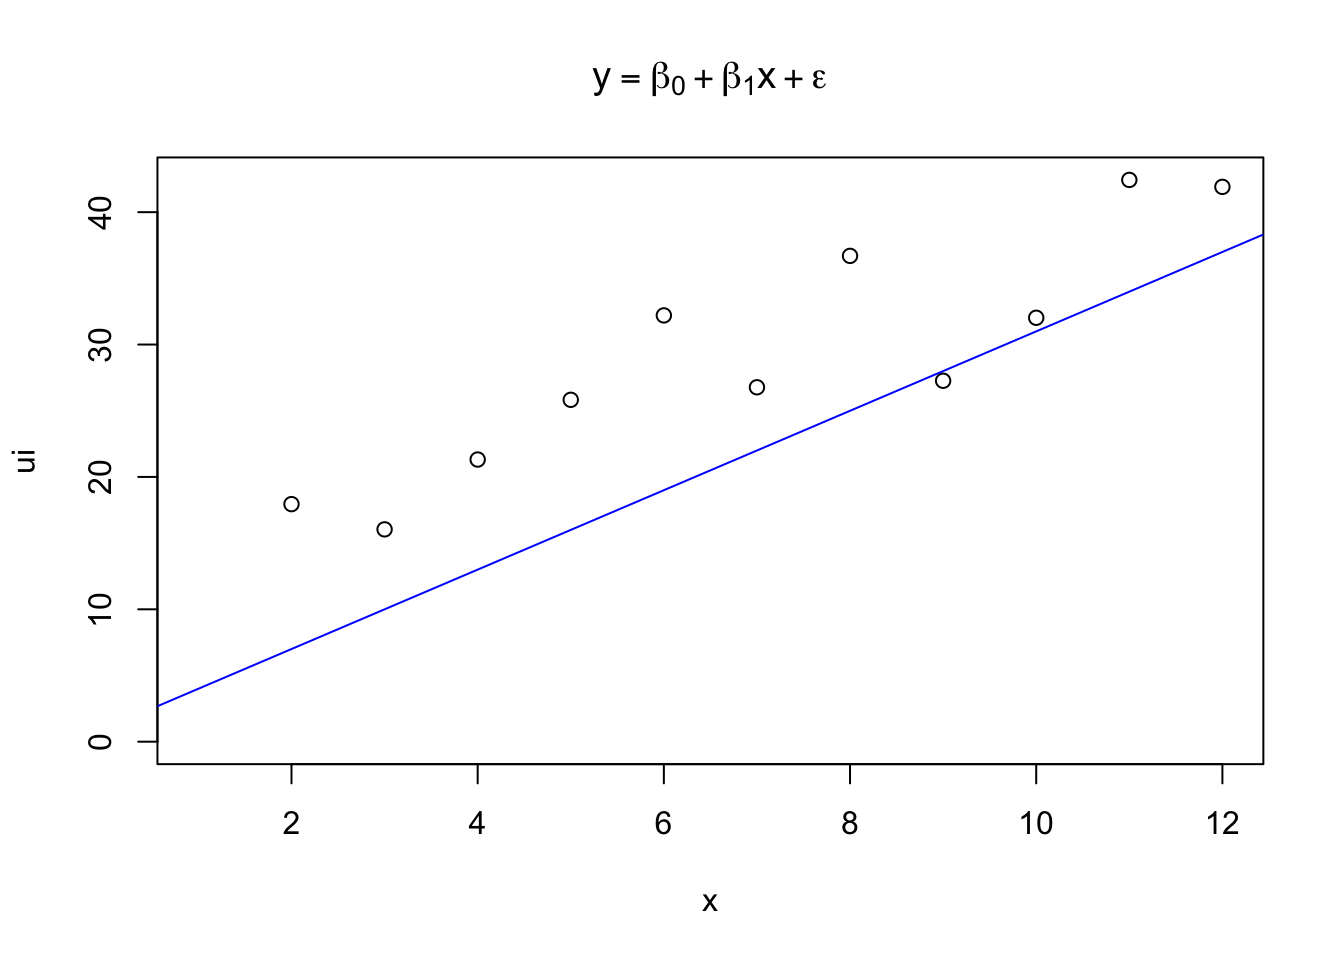
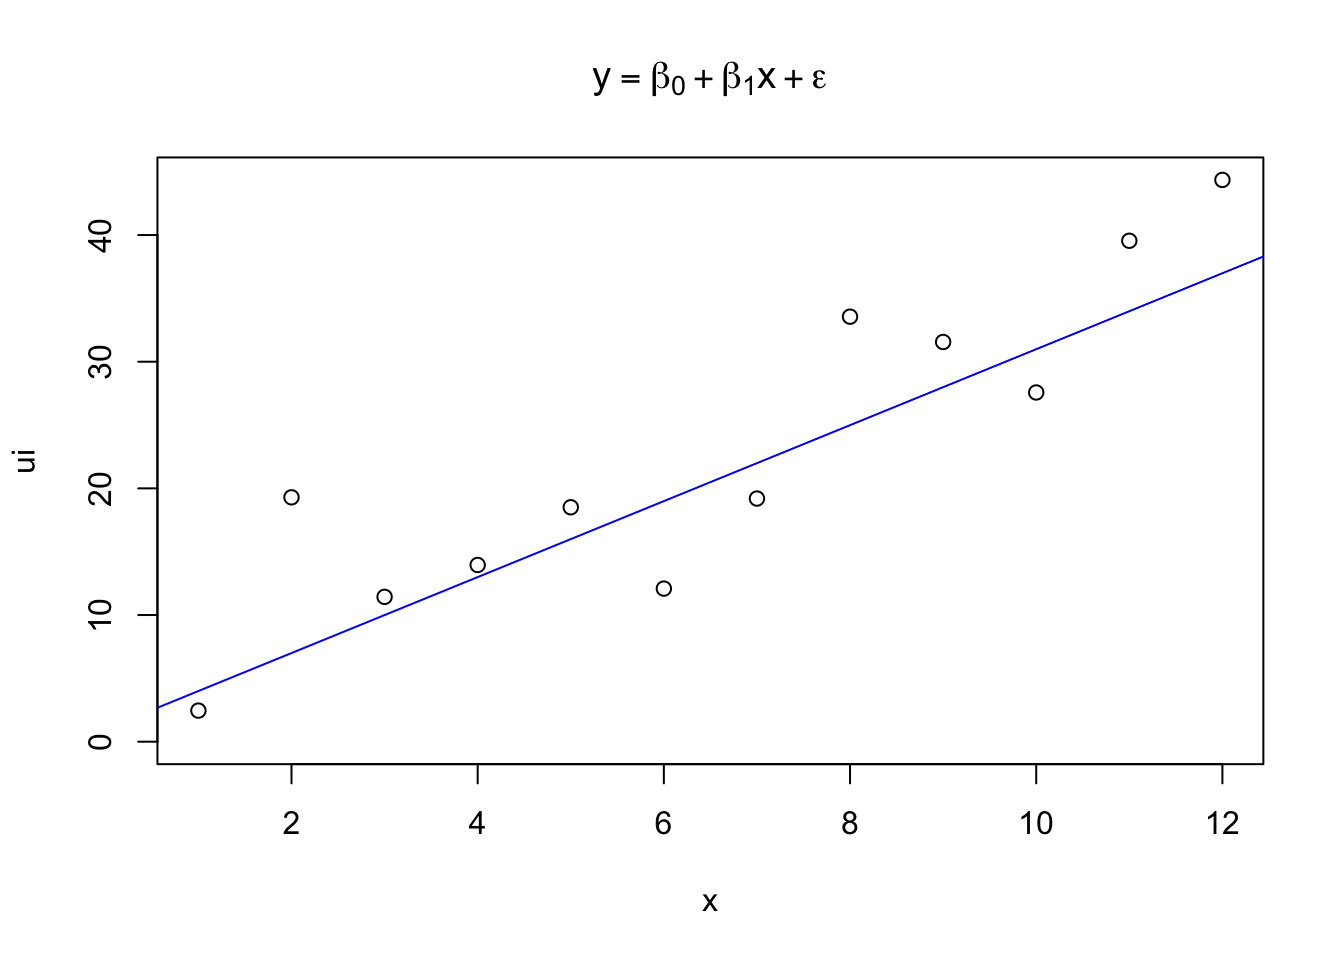
Update gitbook

diff --git a/docs/model.html b/docs/model.html
@@ -4,18 +4,18 @@
 
   <meta charset="utf-8" />
   <meta http-equiv="X-UA-Compatible" content="IE=edge" />
-  <title>Chapter 4 Modeling | NANP Bayesian Workbook</title>
+  <title>Chapter 5 Modeling | NANP Bayesian Workbook</title>
   <meta name="description" content="This is a workbook written to accompany the Bayesian Seminar and Workshop presented by Dr. Ira Parsons and the 2025 National Animal Nutrition Program presymposium for the American Society of Animal Scientists, held in Hollywood Florida." />
   <meta name="generator" content="bookdown 0.43 and GitBook 2.6.7" />
 
-  <meta property="og:title" content="Chapter 4 Modeling | NANP Bayesian Workbook" />
+  <meta property="og:title" content="Chapter 5 Modeling | NANP Bayesian Workbook" />
   <meta property="og:type" content="book" />
   
   <meta property="og:description" content="This is a workbook written to accompany the Bayesian Seminar and Workshop presented by Dr. Ira Parsons and the 2025 National Animal Nutrition Program presymposium for the American Society of Animal Scientists, held in Hollywood Florida." />
   <meta name="github-repo" content="rstudio/bookdown-demo" />
 
   <meta name="twitter:card" content="summary" />
-  <meta name="twitter:title" content="Chapter 4 Modeling | NANP Bayesian Workbook" />
+  <meta name="twitter:title" content="Chapter 5 Modeling | NANP Bayesian Workbook" />
   
   <meta name="twitter:description" content="This is a workbook written to accompany the Bayesian Seminar and Workshop presented by Dr. Ira Parsons and the 2025 National Animal Nutrition Program presymposium for the American Society of Animal Scientists, held in Hollywood Florida." />
   
@@ -30,7 +30,7 @@
   <meta name="apple-mobile-web-app-status-bar-style" content="black" />
   
   
-<link rel="prev" href="probs.html"/>
+<link rel="prev" href="gibbs-sampler-gibbs.html"/>
 
 <script src="libs/jquery-3.6.0/jquery-3.6.0.min.js"></script>
 <script src="https://cdn.jsdelivr.net/npm/fuse.js@6.4.6/dist/fuse.min.js"></script>
@@ -186,9 +186,10 @@ div.csl-indent {
 <li class="chapter" data-level="3.2.3" data-path="probs.html"><a href="probs.html#observation-model"><i class="fa fa-check"></i><b>3.2.3</b> Observation model</a></li>
 </ul></li>
 </ul></li>
-<li class="chapter" data-level="4" data-path="model.html"><a href="model.html"><i class="fa fa-check"></i><b>4</b> Modeling</a>
+<li class="chapter" data-level="4" data-path="gibbs-sampler-gibbs.html"><a href="gibbs-sampler-gibbs.html"><i class="fa fa-check"></i><b>4</b> Gibbs sampler {gibbs}</a></li>
+<li class="chapter" data-level="5" data-path="model.html"><a href="model.html"><i class="fa fa-check"></i><b>5</b> Modeling</a>
 <ul>
-<li class="chapter" data-level="4.1" data-path="model.html"><a href="model.html#excercise-1"><i class="fa fa-check"></i><b>4.1</b> Excercise 1</a></li>
+<li class="chapter" data-level="5.1" data-path="model.html"><a href="model.html#excercise-1"><i class="fa fa-check"></i><b>5.1</b> Excercise 1</a></li>
 </ul></li>
 <li class="divider"></li>
 <li><a href="https://iraparsons.com" target="blank">Ira Parsons</a></li>
@@ -210,10 +211,10 @@ div.csl-indent {
           <div class="page-inner">
 
             <section class="normal" id="section-">
-<div id="model" class="section level1 hasAnchor" number="4">
-<h1><span class="header-section-number">Chapter 4</span> Modeling<a href="model.html#model" class="anchor-section" aria-label="Anchor link to header"></a></h1>
-<div id="excercise-1" class="section level2 hasAnchor" number="4.1">
-<h2><span class="header-section-number">4.1</span> Excercise 1<a href="model.html#excercise-1" class="anchor-section" aria-label="Anchor link to header"></a></h2>
+<div id="model" class="section level1 hasAnchor" number="5">
+<h1><span class="header-section-number">Chapter 5</span> Modeling<a href="model.html#model" class="anchor-section" aria-label="Anchor link to header"></a></h1>
+<div id="excercise-1" class="section level2 hasAnchor" number="5.1">
+<h2><span class="header-section-number">5.1</span> Excercise 1<a href="model.html#excercise-1" class="anchor-section" aria-label="Anchor link to header"></a></h2>
 <p>We have a dataset representing</p>
 
 <div id="refs" class="references csl-bib-body hanging-indent" entry-spacing="0">
@@ -240,7 +241,7 @@ Wasserstein, Ronald L., and Nicole A. Lazar. 2016. <span>“The <span>ASA</span>
           </div>
         </div>
       </div>
-<a href="probs.html" class="navigation navigation-prev navigation-unique" aria-label="Previous page"><i class="fa fa-angle-left"></i></a>
+<a href="gibbs-sampler-gibbs.html" class="navigation navigation-prev navigation-unique" aria-label="Previous page"><i class="fa fa-angle-left"></i></a>
 
     </div>
   </div>
@@ -272,7 +273,7 @@ gitbook.start({
     "size": 2
   },
   "edit": {
-    "link": "https://github.com/USERNAME/REPO/edit/BRANCH/04-modeling.Rmd",
+    "link": "https://github.com/USERNAME/REPO/edit/BRANCH/05-modeling.Rmd",
     "text": "Edit"
   },
   "history": {

diff --git a/docs/gibbs-sampler-gibbs.html b/docs/gibbs-sampler-gibbs.html
@@ -4,18 +4,18 @@
 
   <meta charset="utf-8" />
   <meta http-equiv="X-UA-Compatible" content="IE=edge" />
-  <title>Page not found | NANP Bayesian Workbook</title>
+  <title>Chapter 4 Gibbs sampler {gibbs} | NANP Bayesian Workbook</title>
   <meta name="description" content="This is a workbook written to accompany the Bayesian Seminar and Workshop presented by Dr. Ira Parsons and the 2025 National Animal Nutrition Program presymposium for the American Society of Animal Scientists, held in Hollywood Florida." />
   <meta name="generator" content="bookdown 0.43 and GitBook 2.6.7" />
 
-  <meta property="og:title" content="Page not found | NANP Bayesian Workbook" />
+  <meta property="og:title" content="Chapter 4 Gibbs sampler {gibbs} | NANP Bayesian Workbook" />
   <meta property="og:type" content="book" />
   
   <meta property="og:description" content="This is a workbook written to accompany the Bayesian Seminar and Workshop presented by Dr. Ira Parsons and the 2025 National Animal Nutrition Program presymposium for the American Society of Animal Scientists, held in Hollywood Florida." />
   <meta name="github-repo" content="rstudio/bookdown-demo" />
 
   <meta name="twitter:card" content="summary" />
-  <meta name="twitter:title" content="Page not found | NANP Bayesian Workbook" />
+  <meta name="twitter:title" content="Chapter 4 Gibbs sampler {gibbs} | NANP Bayesian Workbook" />
   
   <meta name="twitter:description" content="This is a workbook written to accompany the Bayesian Seminar and Workshop presented by Dr. Ira Parsons and the 2025 National Animal Nutrition Program presymposium for the American Society of Animal Scientists, held in Hollywood Florida." />
   
@@ -30,8 +30,8 @@
   <meta name="apple-mobile-web-app-status-bar-style" content="black" />
   
   
-
-
+<link rel="prev" href="probs.html"/>
+<link rel="next" href="model.html"/>
 <script src="libs/jquery-3.6.0/jquery-3.6.0.min.js"></script>
 <script src="https://cdn.jsdelivr.net/npm/fuse.js@6.4.6/dist/fuse.min.js"></script>
 <link href="libs/gitbook-2.6.7/css/style.css" rel="stylesheet" />
@@ -211,19 +211,17 @@ div.csl-indent {
           <div class="page-inner">
 
             <section class="normal" id="section-">
-<div id="page-not-found" class="section level1">
-<h1>Page not found</h1>
-<p>The page you requested cannot be found (perhaps it was moved or renamed).</p>
-<p>You may want to try searching to find the page's new location, or use
-the table of contents to find the page you are looking for.</p>
+<div id="gibbs-sampler-gibbs" class="section level1 hasAnchor" number="4">
+<h1><span class="header-section-number">Chapter 4</span> Gibbs sampler {gibbs}<a href="gibbs-sampler-gibbs.html#gibbs-sampler-gibbs" class="anchor-section" aria-label="Anchor link to header"></a></h1>
+
 </div>
             </section>
 
           </div>
         </div>
       </div>
-
-
+<a href="probs.html" class="navigation navigation-prev " aria-label="Previous page"><i class="fa fa-angle-left"></i></a>
+<a href="model.html" class="navigation navigation-next " aria-label="Next page"><i class="fa fa-angle-right"></i></a>
     </div>
   </div>
 <script src="libs/gitbook-2.6.7/js/app.min.js"></script>
@@ -254,7 +252,7 @@ gitbook.start({
     "size": 2
   },
   "edit": {
-    "link": "https://github.com/USERNAME/REPO/edit/BRANCH/%s",
+    "link": "https://github.com/USERNAME/REPO/edit/BRANCH/04-gibbs.Rmd",
     "text": "Edit"
   },
   "history": {

diff --git a/docs/probs.html b/docs/probs.html
@@ -31,7 +31,7 @@
   
   
 <link rel="prev" href="bayes.html"/>
-<link rel="next" href="model.html"/>
+<link rel="next" href="gibbs-sampler-gibbs.html"/>
 <script src="libs/jquery-3.6.0/jquery-3.6.0.min.js"></script>
 <script src="https://cdn.jsdelivr.net/npm/fuse.js@6.4.6/dist/fuse.min.js"></script>
 <link href="libs/gitbook-2.6.7/css/style.css" rel="stylesheet" />
@@ -186,9 +186,10 @@ div.csl-indent {
 <li class="chapter" data-level="3.2.3" data-path="probs.html"><a href="probs.html#observation-model"><i class="fa fa-check"></i><b>3.2.3</b> Observation model</a></li>
 </ul></li>
 </ul></li>
-<li class="chapter" data-level="4" data-path="model.html"><a href="model.html"><i class="fa fa-check"></i><b>4</b> Modeling</a>
+<li class="chapter" data-level="4" data-path="gibbs-sampler-gibbs.html"><a href="gibbs-sampler-gibbs.html"><i class="fa fa-check"></i><b>4</b> Gibbs sampler {gibbs}</a></li>
+<li class="chapter" data-level="5" data-path="model.html"><a href="model.html"><i class="fa fa-check"></i><b>5</b> Modeling</a>
 <ul>
-<li class="chapter" data-level="4.1" data-path="model.html"><a href="model.html#excercise-1"><i class="fa fa-check"></i><b>4.1</b> Excercise 1</a></li>
+<li class="chapter" data-level="5.1" data-path="model.html"><a href="model.html#excercise-1"><i class="fa fa-check"></i><b>5.1</b> Excercise 1</a></li>
 </ul></li>
 <li class="divider"></li>
 <li><a href="https://iraparsons.com" target="blank">Ira Parsons</a></li>
@@ -314,19 +315,19 @@ div.csl-indent {
 ## lm(formula = ui ~ x)
 ## 
 ## Residuals:
-##    Min     1Q Median     3Q    Max 
-## -7.820 -4.356 -2.974  3.494 16.461 
+##     Min      1Q  Median      3Q     Max 
+## -9.1375 -3.6155  0.0147  3.0692 10.6044 
 ## 
 ## Coefficients:
 ##             Estimate Std. Error t value Pr(&gt;|t|)    
-## (Intercept)   4.9734     4.3629   1.140  0.28088    
-## x             2.9473     0.5928   4.972  0.00056 ***
+## (Intercept)   2.4192     3.5634   0.679    0.513    
+## x             3.1344     0.4842   6.474 7.13e-05 ***
 ## ---
 ## Signif. codes:  0 &#39;***&#39; 0.001 &#39;**&#39; 0.01 &#39;*&#39; 0.05 &#39;.&#39; 0.1 &#39; &#39; 1
 ## 
-## Residual standard error: 7.089 on 10 degrees of freedom
-## Multiple R-squared:  0.712,  Adjusted R-squared:  0.6832 
-## F-statistic: 24.72 on 1 and 10 DF,  p-value: 0.0005601</code></pre>
+## Residual standard error: 5.79 on 10 degrees of freedom
+## Multiple R-squared:  0.8074, Adjusted R-squared:  0.7881 
+## F-statistic: 41.91 on 1 and 10 DF,  p-value: 7.129e-05</code></pre>
 </div>
 <div id="observation-model" class="section level3 hasAnchor" number="3.2.3">
 <h3><span class="header-section-number">3.2.3</span> Observation model<a href="probs.html#observation-model" class="anchor-section" aria-label="Anchor link to header"></a></h3>
@@ -347,7 +348,7 @@ Hobbs, N. Thompson, and Mevin B. Hooten. 2015. <em>Bayesian <span>Models</span>:
         </div>
       </div>
 <a href="bayes.html" class="navigation navigation-prev " aria-label="Previous page"><i class="fa fa-angle-left"></i></a>
-<a href="model.html" class="navigation navigation-next " aria-label="Next page"><i class="fa fa-angle-right"></i></a>
+<a href="gibbs-sampler-gibbs.html" class="navigation navigation-next " aria-label="Next page"><i class="fa fa-angle-right"></i></a>
     </div>
   </div>
 <script src="libs/gitbook-2.6.7/js/app.min.js"></script>

diff --git a/docs/index.html b/docs/index.html
@@ -186,9 +186,10 @@ div.csl-indent {
 <li class="chapter" data-level="3.2.3" data-path="probs.html"><a href="probs.html#observation-model"><i class="fa fa-check"></i><b>3.2.3</b> Observation model</a></li>
 </ul></li>
 </ul></li>
-<li class="chapter" data-level="4" data-path="model.html"><a href="model.html"><i class="fa fa-check"></i><b>4</b> Modeling</a>
+<li class="chapter" data-level="4" data-path="gibbs-sampler-gibbs.html"><a href="gibbs-sampler-gibbs.html"><i class="fa fa-check"></i><b>4</b> Gibbs sampler {gibbs}</a></li>
+<li class="chapter" data-level="5" data-path="model.html"><a href="model.html"><i class="fa fa-check"></i><b>5</b> Modeling</a>
 <ul>
-<li class="chapter" data-level="4.1" data-path="model.html"><a href="model.html#excercise-1"><i class="fa fa-check"></i><b>4.1</b> Excercise 1</a></li>
+<li class="chapter" data-level="5.1" data-path="model.html"><a href="model.html#excercise-1"><i class="fa fa-check"></i><b>5.1</b> Excercise 1</a></li>
 </ul></li>
 <li class="divider"></li>
 <li><a href="https://iraparsons.com" target="blank">Ira Parsons</a></li>
@@ -219,7 +220,7 @@ div.csl-indent {
 <h1>Abstract<a href="index.html#abstract" class="anchor-section" aria-label="Anchor link to header"></a></h1>
 <blockquote>
 <p>“How do you know what you know, and how do you show what you know is really so?”</p>
-<p>— Storytime with Ira</p>
+<p>— Unknown</p>
 </blockquote>
 <p>The ability to ask important questions and provide compelling answers will determine the impact of your scientific research. Bayes Theorem provides foundational principles for developing full mathematical expressions that incorporate process models, sampling methods, observational error, and prior knowledge of the biological system. This workshop’s goal is to provide participants with an avenue to free themselves from the inadequacies of procedural, outcome-oriented statistical methods and facilitate scientists to ask important questions using a first principles approach to biological questions. Application of inverse probability theory can be found across disciplines such as epidemiology, social science, computer science, artificial intelligence, and life sciences. In preparation for the workshop, participants should ensure they have R and their favorite R GUI installed, along with the packages rjags. By providing a comprehensive overview of developing and implementing process-based Bayesian models, participants should gain practical insight into the utility of first principles-based statistical modeling methodology and greater confidence to embark on their own quest to ask insightful scientific questions.</p>
 <div class="figure"><span style="display:block;" id="fig:modframe"></span>

diff --git a/docs/bayes.html b/docs/bayes.html
@@ -186,9 +186,10 @@ div.csl-indent {
 <li class="chapter" data-level="3.2.3" data-path="probs.html"><a href="probs.html#observation-model"><i class="fa fa-check"></i><b>3.2.3</b> Observation model</a></li>
 </ul></li>
 </ul></li>
-<li class="chapter" data-level="4" data-path="model.html"><a href="model.html"><i class="fa fa-check"></i><b>4</b> Modeling</a>
+<li class="chapter" data-level="4" data-path="gibbs-sampler-gibbs.html"><a href="gibbs-sampler-gibbs.html"><i class="fa fa-check"></i><b>4</b> Gibbs sampler {gibbs}</a></li>
+<li class="chapter" data-level="5" data-path="model.html"><a href="model.html"><i class="fa fa-check"></i><b>5</b> Modeling</a>
 <ul>
-<li class="chapter" data-level="4.1" data-path="model.html"><a href="model.html#excercise-1"><i class="fa fa-check"></i><b>4.1</b> Excercise 1</a></li>
+<li class="chapter" data-level="5.1" data-path="model.html"><a href="model.html#excercise-1"><i class="fa fa-check"></i><b>5.1</b> Excercise 1</a></li>
 </ul></li>
 <li class="divider"></li>
 <li><a href="https://iraparsons.com" target="blank">Ira Parsons</a></li>

diff --git a/docs/intro.html b/docs/intro.html
@@ -186,9 +186,10 @@ div.csl-indent {
 <li class="chapter" data-level="3.2.3" data-path="probs.html"><a href="probs.html#observation-model"><i class="fa fa-check"></i><b>3.2.3</b> Observation model</a></li>
 </ul></li>
 </ul></li>
-<li class="chapter" data-level="4" data-path="model.html"><a href="model.html"><i class="fa fa-check"></i><b>4</b> Modeling</a>
+<li class="chapter" data-level="4" data-path="gibbs-sampler-gibbs.html"><a href="gibbs-sampler-gibbs.html"><i class="fa fa-check"></i><b>4</b> Gibbs sampler {gibbs}</a></li>
+<li class="chapter" data-level="5" data-path="model.html"><a href="model.html"><i class="fa fa-check"></i><b>5</b> Modeling</a>
 <ul>
-<li class="chapter" data-level="4.1" data-path="model.html"><a href="model.html#excercise-1"><i class="fa fa-check"></i><b>4.1</b> Excercise 1</a></li>
+<li class="chapter" data-level="5.1" data-path="model.html"><a href="model.html#excercise-1"><i class="fa fa-check"></i><b>5.1</b> Excercise 1</a></li>
 </ul></li>
 <li class="divider"></li>
 <li><a href="https://iraparsons.com" target="blank">Ira Parsons</a></li>
